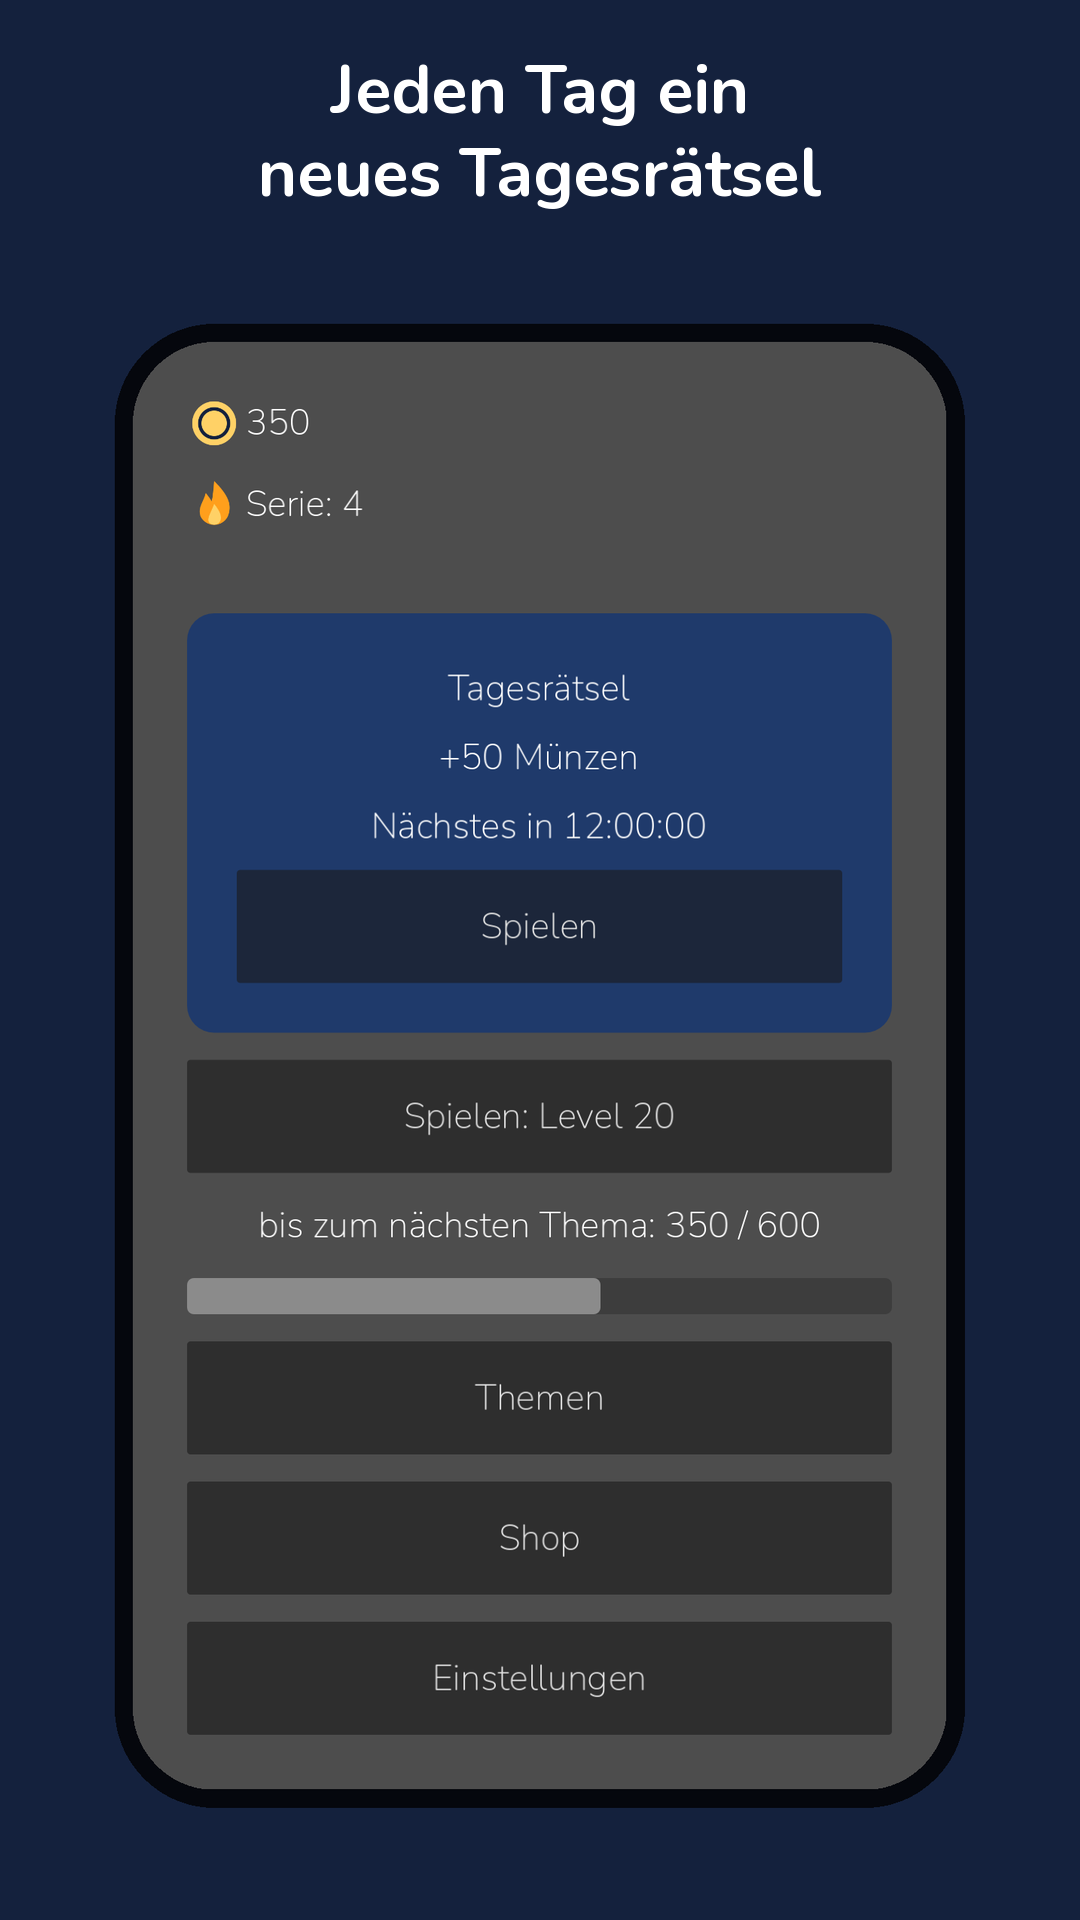
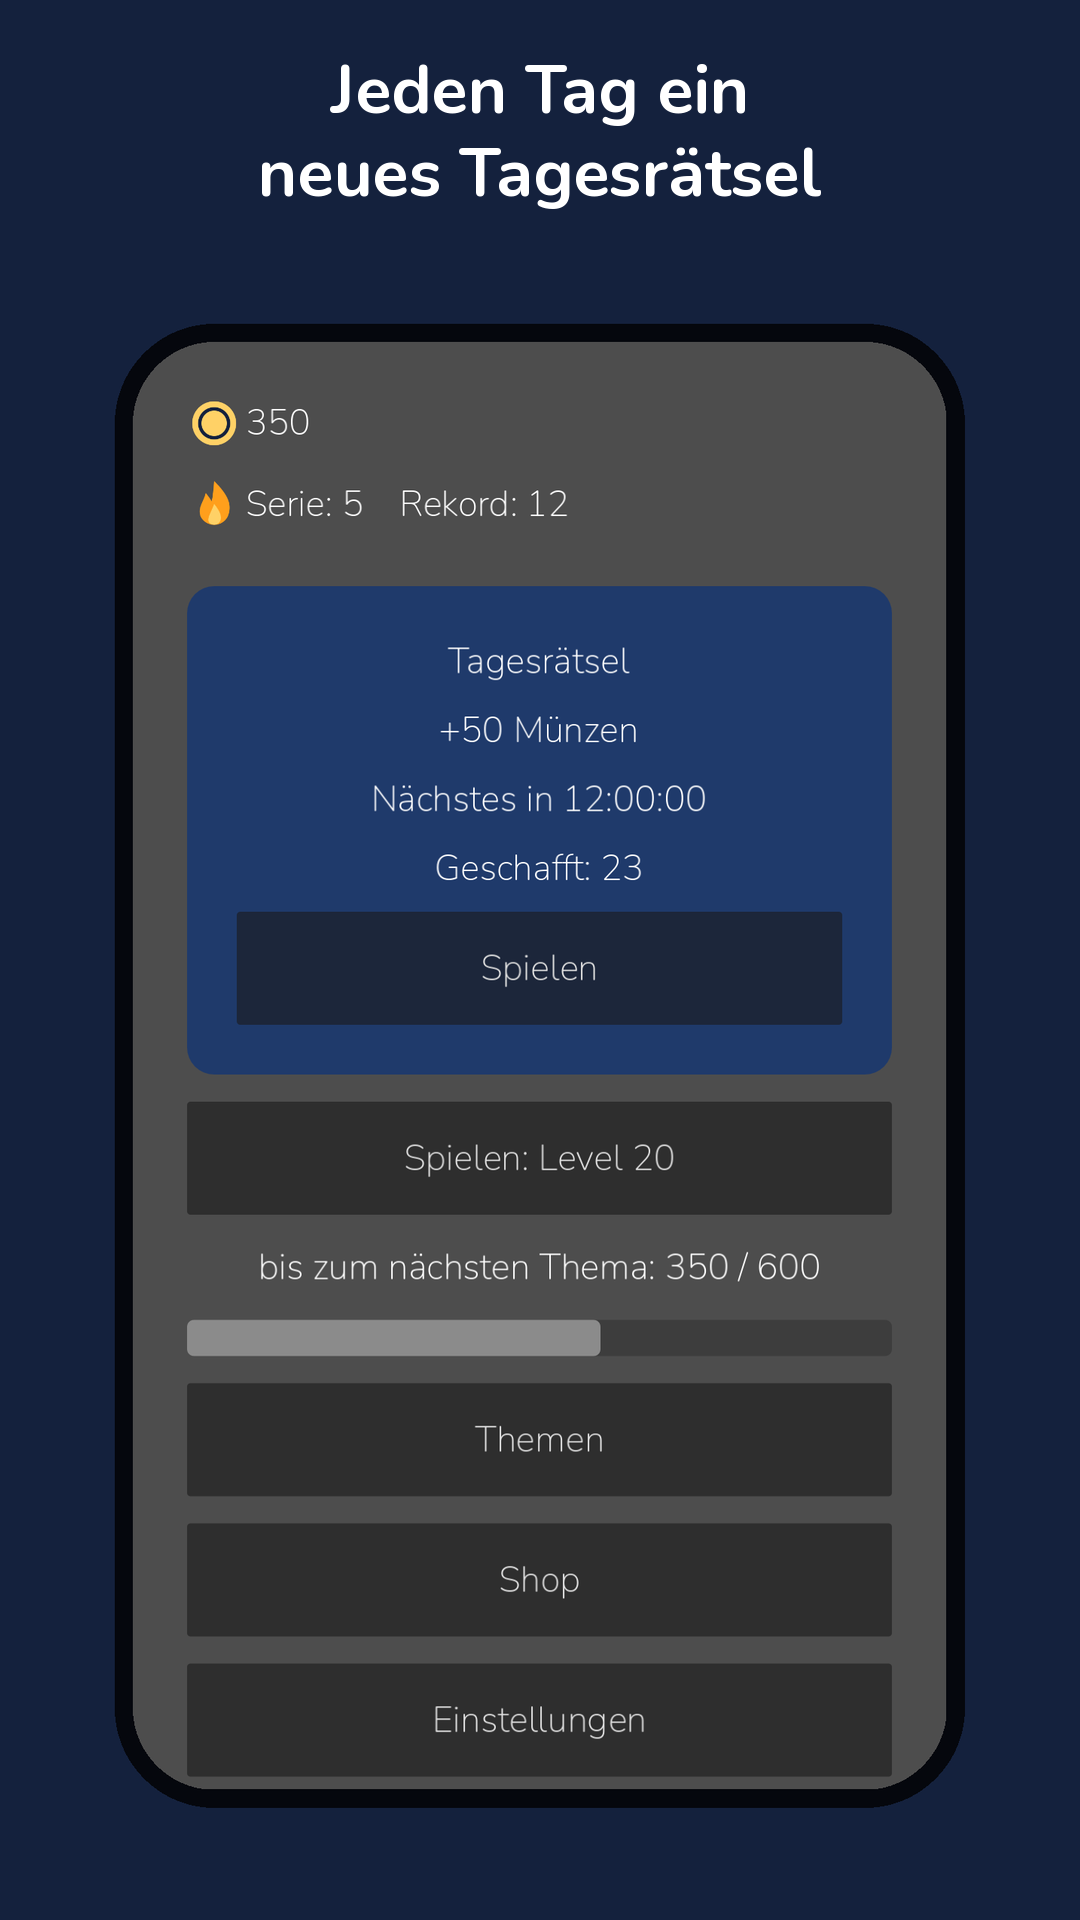
feat(T-110): Home — „Ukończone: N” na karcie Poziomu dnia i rekord serii (streak_best) + kadr 03 (#96)
* chore(T-110): start

Claude-Session: https://claude.ai/code/session_015yGikLBi35AFjSSnUGPQFi

* feat(T-110): Home — „Ukończone: N” na karcie Poziomu dnia i rekord serii (streak_best), fixture aso_home, kadr 03 ×3

Claude-Session: https://claude.ai/code/session_015yGikLBi35AFjSSnUGPQFi

* chore(T-110): status review → PR #96, LOG

Claude-Session: https://claude.ai/code/session_015yGikLBi35AFjSSnUGPQFi

---------

Changed region(s): [[0.1528, 0.25, 0.825, 0.9375]]

diff --git a/BACKLOG.md b/BACKLOG.md
@@ -38,7 +38,7 @@ Pętla bierze pierwsze `todo` z najwyższej sekcji. Zadania P0 muszą być `done
   KA: nowa `Level.resume_clock()` ustawia `_round_bound_at = int(clock.call())`; `App._notification(NOTIFICATION_APPLICATION_FOCUS_IN)` woła ją, gdy bieżący ekran to `Level`, a gdy `Home` — `home.refresh()` i `_maybe_show_daily_popup(home)` (guard `_popup_shown_day` bez zmian; w `Level` popup się nie pokazuje i runda nie jest ruszana). Testy gdUnit4 ≥ 4 ze wstrzykniętym zegarem: (1) runda 10 s → FOCUS_OUT → +3600 s → FOCUS_IN → +5 s → wygrana: `round.elapsed_s` w [15, 16], nie ≥ 3600; (2) `Home`, nagroda dnia D odebrana, FOCUS_IN w dniu D+1 → `popup_visible() == true`; (3) FOCUS_IN w tym samym dniu → `false`; (4) `Level` w dniu D+1 → brak popupu, ruchy rundy bez zmian. `make check` zielone. ≤ ~70 linii.
   Skill: `godot-dev`
 
-- [ ] T-110 `todo` Home: widoczna meta — „Ukończone: N” na karcie Poziomu dnia (`daily_completed_total`) i rekord serii (`streak_best`) (GDD → Ekrany `Home`, Meta „Cele 30 dni”; zależy od T-108 — kadr 03)
+- [ ] T-110 `review` Home: widoczna meta — „Ukończone: N” na karcie Poziomu dnia (`daily_completed_total`) i rekord serii (`streak_best`) (GDD → Ekrany `Home`, Meta „Cele 30 dni”; zależy od T-108 — kadr 03) → PR #96
   KA: `Home` dostaje `daily_total_label` (w karcie Poziomu dnia, `tr("home_daily_total") % state.daily_completed_total`, ukryty przy 0) i `streak_best_label` (`tr("home_streak_best") % state.streak_best`, widoczny gdy `streak_best >= 2`), odświeżane w `refresh()`. Klucze w `strings.csv` EN/PL/DE (PROPOZYCJA: „Completed: %d” / „Ukończone: %d” / „Geschafft: %d”; „Best: %d” / „Rekord: %d” / „Rekord: %d” — DE dopisać do `SAME_AS_EN`, jeśli test „≠ EN” tego wymaga, z komentarzem). Fixture `aso_home` w `ScreenshotFixtures`: `daily_completed_total = 23`, `streak_best = 12`, `streak_days = 5`. Testy gdUnit4 ≥ 3 (0 → etykieta ukryta; 23 → tekst zawiera „23”; `streak_best` 1 → ukryta, 12 → widoczna). `make screenshots` → kadr 03 ×3 locale odświeżony i obejrzany (PL), etykiety nie wychodzą poza kartę 720 px. `make check` zielone. ≤ ~60 linii + PNG.
   Skill: `godot-dev`
 

diff --git a/docs/LOG.md b/docs/LOG.md
@@ -160,3 +160,4 @@ Godot 4.4.1 → 4.7.2, gdUnit4 → v7, target API 36 (ADR-008). make check zielo
 - Start: brak otwartych PR task/*, main = #93. Pierwsze `todo`: T-108.
 - P1: T-108 — `ScreenshotArgs` `--now=<unix>` (domyślnie `SCREENSHOT_NOW_UNIX` 1792843200, walidacja nieujemnej liczby), `main.gd._run_screenshot` liczy `today` z `now` i ustawia `app.clock` na stały Callable; 3 testy (397 gdUnit4); `make screenshots` 2× → 15 PNG identyczne sha256. Ustalenie: `03_daily` zmieniał się przez licznik „do północy” z zegara systemowego; `05_themes` PL/DE nie był niedeterministyczny — zacommitowane PNG były sprzed T-080 (angielskie nazwy motywów), regeneracja. QA PASS (3 seedy 200/200) → PR #94 (auto-merge).
 - P1: T-109 — `Level.resume_clock()` + `App._on_focus_in()` (Level → resume_clock, Home → refresh + popup nagrody po północy UTC); nowa suita `test_app_focus.gd` (4 testy z zegarem, 398 gdUnit4; bez poprawki test (1) pada — kontrola negatywna QA); GDD `level_complete` (czas w tle niewliczany). QA PASS (3 seedy 200/200) → PR #95 (auto-merge). #94 zmergowany w trakcie sesji.
+- P1: T-110 — `Home.daily_total_label` („Ukończone: N”, ukryta przy 0) i `streak_best_label` („Rekord: N”, widoczna od 2, `STREAK_BEST_MIN_VISIBLE`), klucze EN/PL/DE, fixture `aso_home` (23/12/5), kadr 03 ×3 (tylko te PNG się zmieniły — stały zegar z T-108 działa); 4 testy (401 gdUnit4). QA PASS → PR #96 (auto-merge). #95 zmergowany w trakcie sesji.
